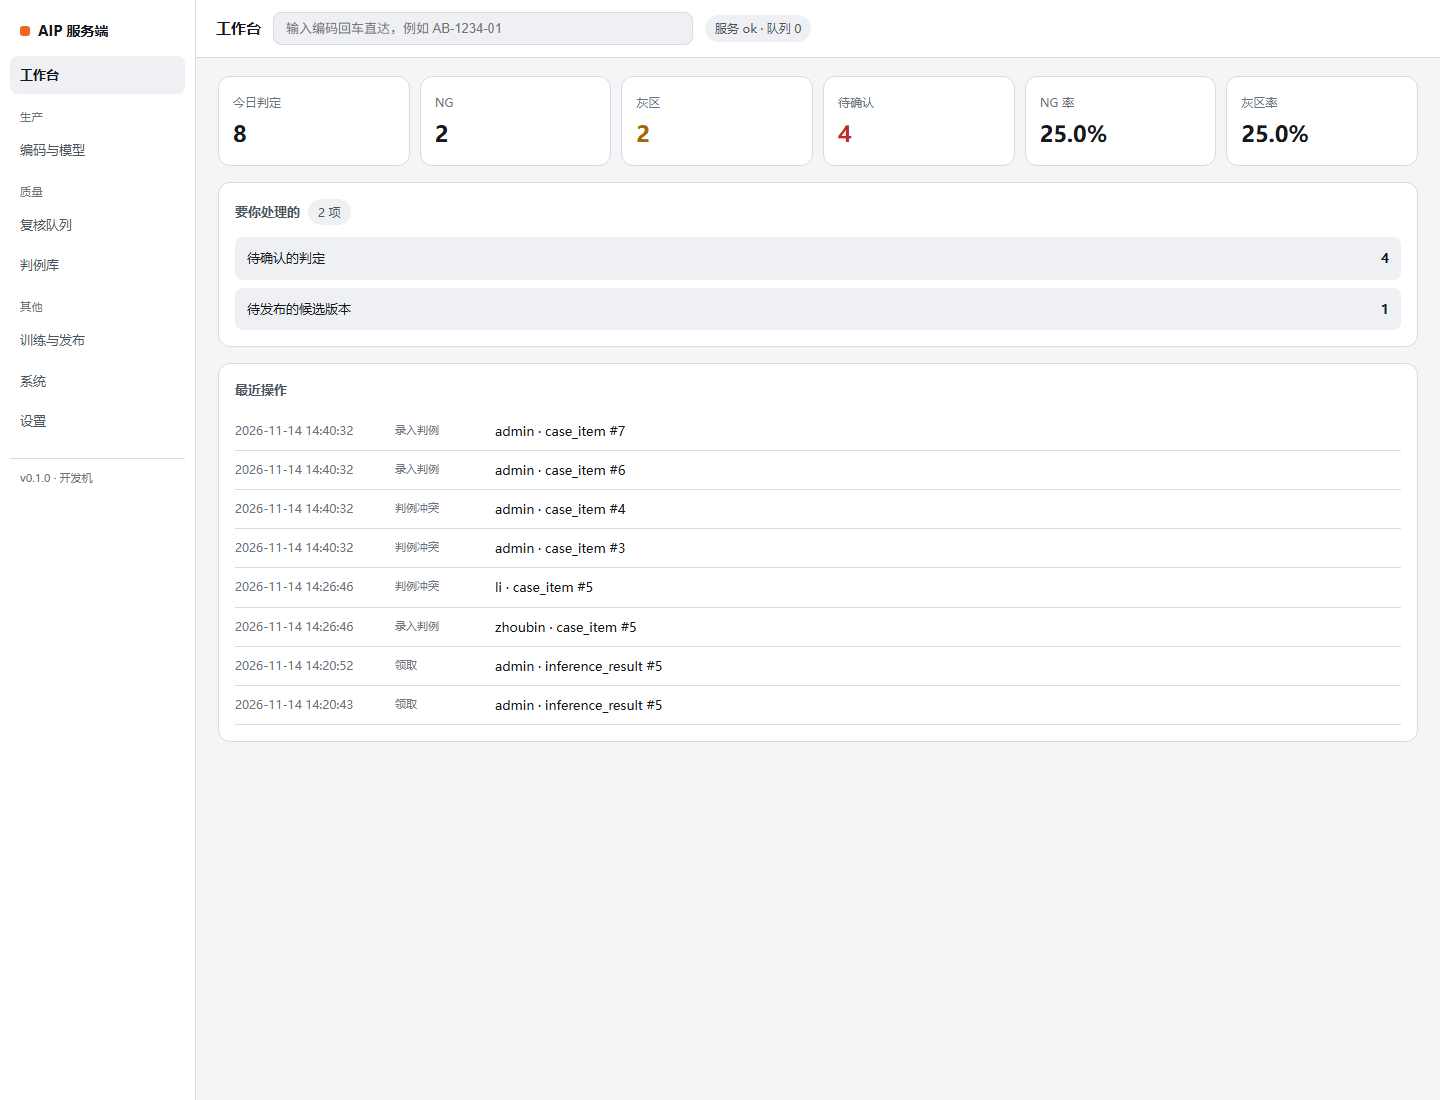
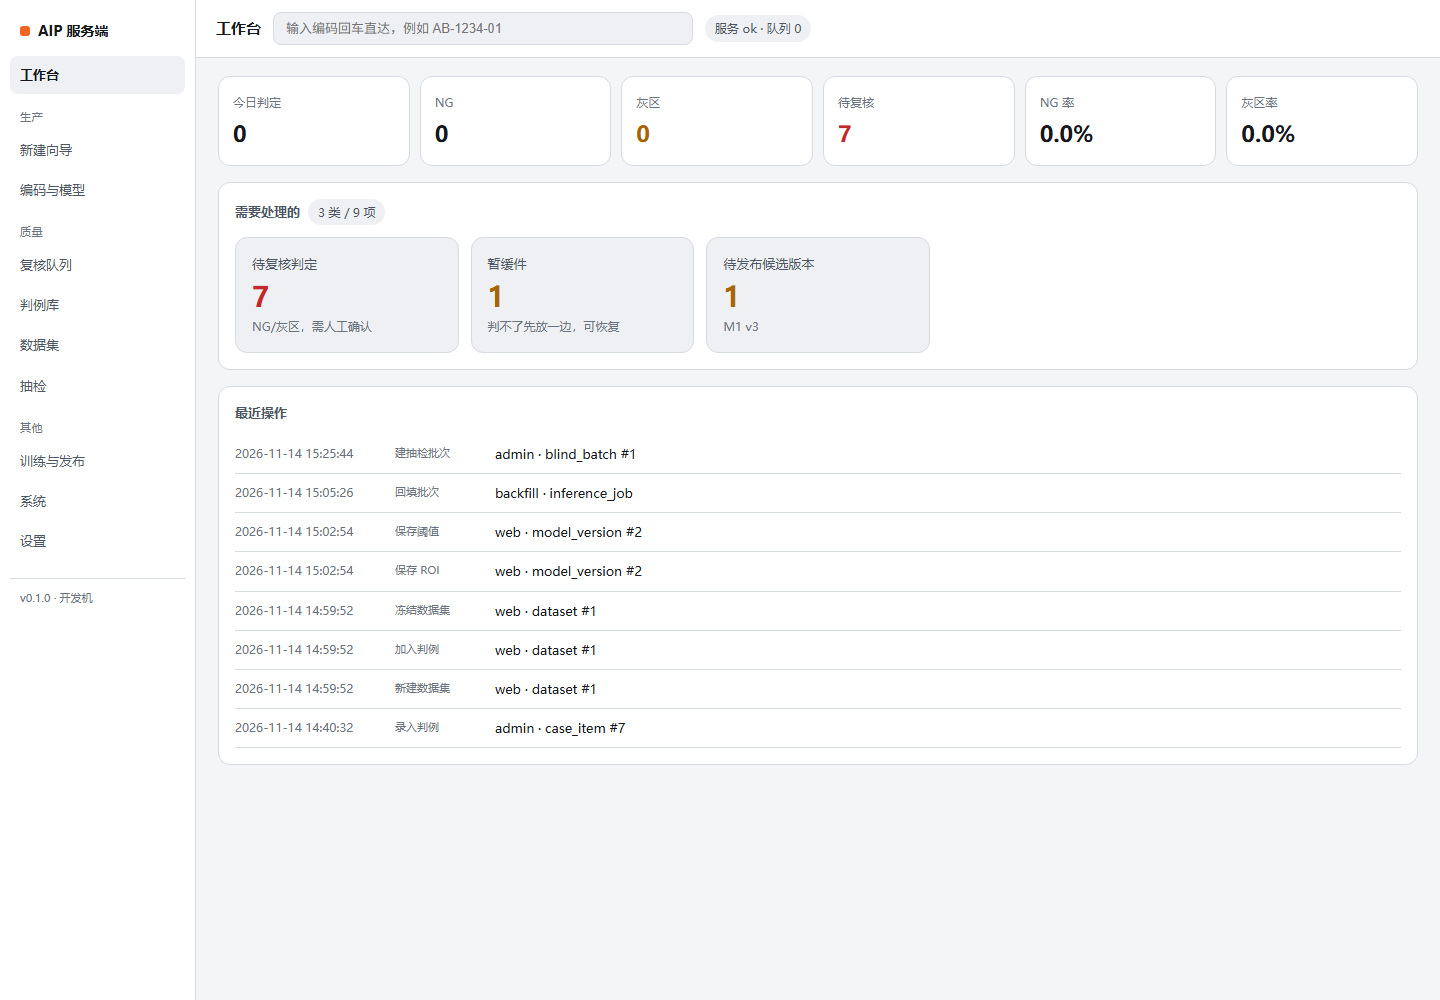
feat: 工作台待办按类别聚合为可点卡片（复核/暂缓/候选/草稿数据集/异常站位）

diff --git a/aip/web/admin.html b/aip/web/admin.html
@@ -141,6 +141,15 @@
   }
   .form-tight input,.form-tight select{min-width:0;max-width:340px}
   .form-tight > div:last-child button{width:180px}
+  .todo-grid{display:grid;grid-template-columns:repeat(auto-fill,minmax(220px,1fr));gap:12px}
+  .todo-card{display:flex;flex-direction:column;gap:6px;padding:16px;border-radius:12px;
+    border:1px solid var(--g3);background:var(--g2);text-decoration:none;color:inherit}
+  .todo-card:hover{border-color:var(--brand)}
+  .todo-title{font-size:13px;color:var(--t2)}
+  .todo-count{font-size:28px;line-height:1.1}
+  .todo-card.warn .todo-count{color:var(--warn)}
+  .todo-card.bad .todo-count{color:var(--bad)}
+  .todo-hint{font-size:12px;color:var(--t3)}
   .filterbar{display:flex;gap:10px;flex-wrap:wrap;align-items:center;margin:0 0 12px}
   .filterbar input,.filterbar select{flex:0 0 auto}
   .model-block{border:1px solid var(--g3);border-radius:10px;padding:12px;margin-bottom:12px;background:var(--g1)}
@@ -352,19 +361,33 @@ document.addEventListener("input", (ev) => {
 /* ---------- 视图 ---------- */
 
 async function renderWorkbench() {
-  const [stats, overview, audit] = await Promise.all([
-    api("/api/stats/today"), api("/api/overview"), api("/api/audit/recent?limit=8")
+  const [stats, overview, audit, models, datasets, queue] = await Promise.all([
+    api("/api/stats/today"), api("/api/overview"), api("/api/audit/recent?limit=8"),
+    api("/api/models"), api("/api/datasets"), api("/review/queue?limit=1")
   ]);
-  const candidates = (await api("/api/models")).flatMap(m =>
-    m.versions.filter(v => v.status === "candidate").map(v => ({model: m.code, vno: v.version_no})));
-  const badStations = overview.stations.filter(s => s.health !== "ok");
 
-  const todos = [];
-  let hint = "";
-  if (overview.pending_review > 0) todos.push({href:"#/quality", text:"待复核的判定", n: overview.pending_review});
-  if (candidates.length) todos.push({href:"#/training", text:"待发布的候选版本", n: candidates.length});
-  if (badStations.length) todos.push({href:"#/system", text:"异常站位", n: badStations.length});
-  if (overview.cases === 0) hint = "判例库还是空的，录一条之后复核就有参考样例了";
+  const candidates = models.flatMap(m =>
+    m.versions.filter(v => v.status === "candidate").map(v => ({code: m.code, vno: v.version_no})));
+  const drafts = datasets.filter(d => d.status === "draft");
+  const badStations = overview.stations.filter(s => s.health !== "ok");
+  const skipped = queue.summary.skipped_count || 0;
+
+  const todos = [
+    {href: "#/quality", title: "待复核判定", count: overview.pending_review,
+     hint: "NG/灰区，需人工确认", tone: "bad"},
+    {href: "#/quality", title: "暂缓件", count: skipped,
+     hint: "判不了先放一边，可恢复", tone: "warn"},
+    {href: "#/training", title: "待发布候选版本", count: candidates.length,
+     hint: candidates.length ? candidates.map(c => `${c.code} v${c.vno}`).join("、") : "没有候选版本",
+     tone: "warn"},
+    {href: "#/datasets", title: "未冻结数据集", count: drafts.length,
+     hint: drafts.length ? drafts.map(d => d.name).join("、") : "全部已冻结",
+     tone: "warn"},
+    {href: "#/system", title: "异常站位", count: badStations.length,
+     hint: badStations.length ? badStations.map(s => s.name).join("、") : "全部正常",
+     tone: "bad"},
+  ];
+  const active = todos.filter(t => t.count > 0);
 
   $("view").innerHTML = `
     <div class="cards">
@@ -377,49 +400,26 @@ async function renderWorkbench() {
     </div>
 
     <section>
-      <h2>要你处理的 <span class="pill">${todos.length} 项</span></h2>
-      <div class="todo">
-        ${todos.length ? todos.map(t => `<a href="${t.href}"><span>${esc(t.text)}</span><span class="n">${t.n}</span></a>`).join("")
-          : `<div class="empty">今天没有待处理事项。${hint ? "<br>" + esc(hint) : ""}</div>`}
-      </div>
+      <h2>需要处理的 <span class="pill">${active.length} 类 / ${todos.reduce((n,t)=>n+t.count,0)} 项</span></h2>
+      ${active.length === 0 ? `<div class="empty">今天没有待办。<b>下一步</b>：去「新建向导」建一条新产品线，或去「判例库」补充样本。</div>` : `
+      <div class="todo-grid">
+        ${active.map(t => `
+          <a class="todo-card ${t.tone}" href="${t.href}">
+            <span class="todo-title">${esc(t.title)}</span>
+            <b class="todo-count">${t.count}</b>
+            <span class="todo-hint">${esc(t.hint)}</span>
+          </a>`).join("")}
+      </div>`}
     </section>
 
     <section>
-      <h2>存储维护</h2>
-      <p class="muted" style="margin:0 0 12px">
-        判例引用的图与待复核证据永不自动删；其余按保留期清理（设置 → 存储）。
-      </p>
-      <div class="row">
-        <button class="ghost" id="btnPreview">预览可清理</button>
-        <button class="ghost" id="btnClean">执行清理</button>
-      </div>
-      <div id="storageOut" class="muted" style="margin-top:10px"></div>
-    </section>
-
-    <section>
-      <h2>最近操作 <span class="pill">${audit.length} / ${auditRaw.length}</span></h2>
-      <div class="filterbar">
-        <select id="sys_action" style="max-width:220px">
-          <option value="">全部动作</option>
-          ${Object.keys(ACTIONS).map(k => `<option value="${k}" ${systemState.auditAction === k ? "selected" : ""}>${esc(actionLabel(k))}</option>`).join("")}
-        </select>
-        <input id="sys_actor" value="${esc(systemState.auditActor)}" placeholder="操作人，回车筛选" style="max-width:200px">
-        <button class="ghost" id="sys_reset">重置</button>
-      </div>
+      <h2>最近操作</h2>
       ${audit.length ? `<div class="timeline">${audit.map(a => `
         <div class="tl"><time>${fmtTime(a.created_at)}</time><span class="kind">${esc(actionLabel(a.action))}</span>
         <span>${esc(a.actor)} · ${esc(a.entity)}${a.entity_id ? " #" + esc(a.entity_id) : ""}</span></div>`).join("")}</div>`
         : `<div class="empty">还没有记录。改阈值、换绑定、发布版本都会出现在这里。</div>`}
     </section>`;
 }
-
-let showArchived = false;
-
-let wiz = { code: "", modelId: null };
-let trainingState = { q: "", family: "", jobModel: "" };
-let datasetState = { q: "", family: "", model: "", status: "" };
-let blindState = { q: "", status: "" };
-let systemState = { auditAction: "", auditActor: "", auditLimit: 100 };
 
 async function renderWizard() {
   const [codes, models, bindings, datasets] = await Promise.all([
